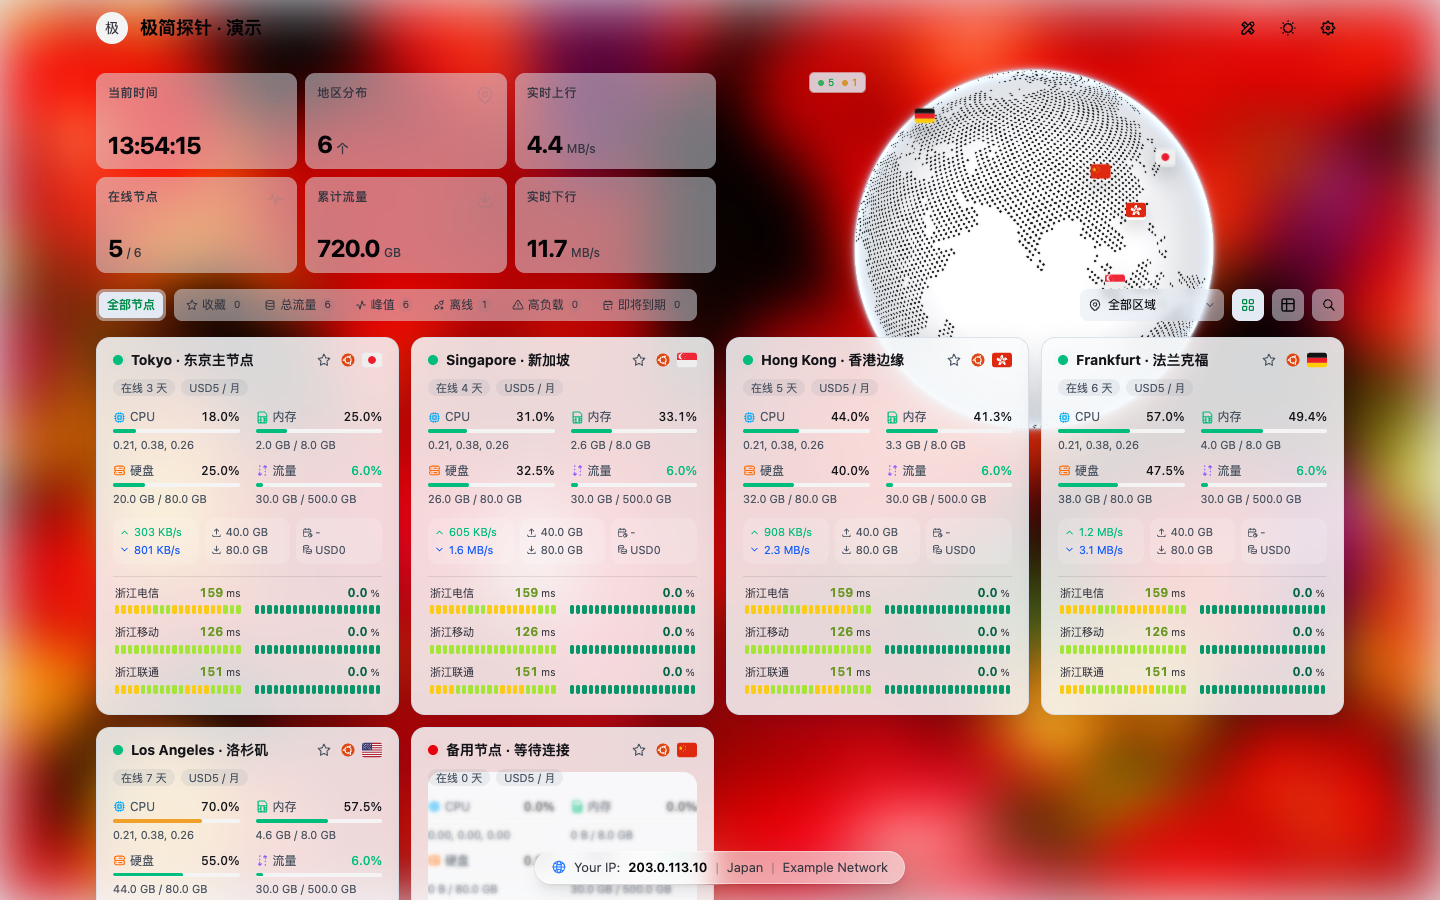
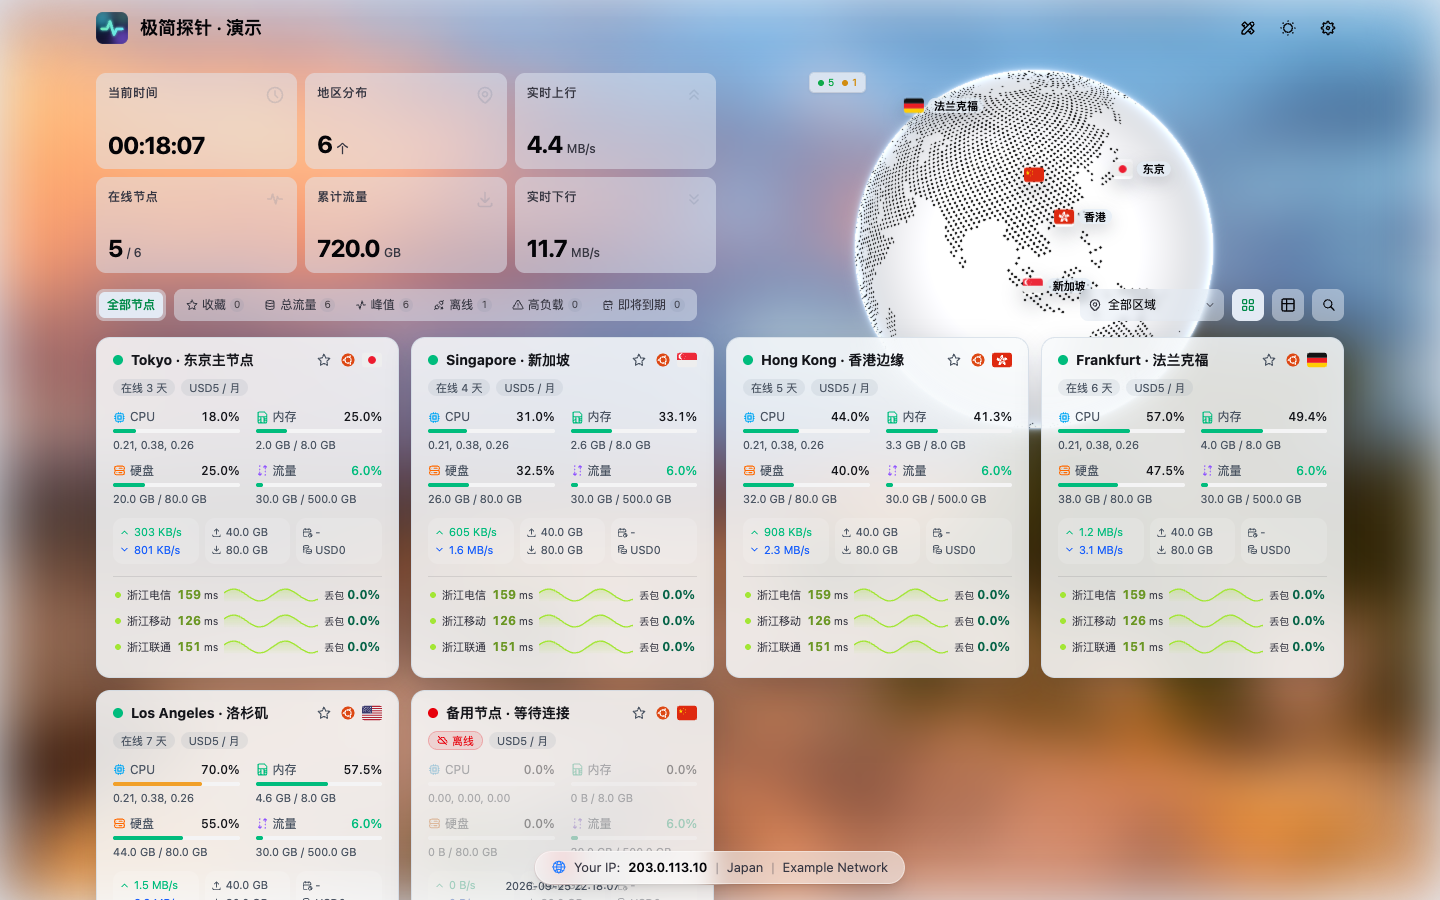
Release Glassmorphism theme 1.2.0
Bump the version in theme.json, package.json, package-lock.json and
vite.config.ts, add the 1.2.0 notes to the README (latency curves,
globe cities, offline cards, iOS support and the new icon), and
refresh preview.png against the demo data with an example visitor IP.

diff --git a/vite.config.ts b/vite.config.ts
@@ -3,7 +3,7 @@ import vue from '@vitejs/plugin-vue'
 import tailwindcss from '@tailwindcss/vite'
 export default defineConfig({
   plugins: [vue(), tailwindcss()],
-  define: { __BUILD_VERSION__: JSON.stringify('1.1.0'), __BUILD_GIT_HASH__: JSON.stringify('monitor-port') },
+  define: { __BUILD_VERSION__: JSON.stringify('1.2.0'), __BUILD_GIT_HASH__: JSON.stringify('monitor-port') },
   resolve: { alias: { '@': import.meta.dirname + '/src' } },
   server: { host: '127.0.0.1', proxy: { '/api': { target: process.env.MONITOR_HUB ?? 'http://127.0.0.1:9911', changeOrigin: true, ws: true } } },
   build: { chunkSizeWarningLimit: 1800 },

diff --git a/README.md b/README.md
@@ -4,27 +4,27 @@
 
 将 [sanrokamlan-prog/komari-theme-Glassmorphism](https://github.com/sanrokamlan-prog/komari-theme-Glassmorphism) 原主题移植到 [极简探针 Monitor](https://github.com/monitor-probe/monitor)。基于原版 v3.3.7 的 Vue 源码、组件、样式与资源，数据改由 Monitor REST / WebSocket 接口提供，不需要 Komari 服务器。
 
-当前版本 1.1.0，保留原项目 MIT 许可和作者署名。
+当前版本 1.2.0，保留原项目 MIT 许可和作者署名。
 
 ## 主要功能
 
 - **玻璃拟态外观**：动态渐变背景，翡翠 / 柔和 / 高对比 / 午夜 / 自定义配色；浅色、深色或按北京时间自动切换。背景可用图片、视频或 Bing 每日壁纸。
-- **地球与地图**：贴图地球、Cobe 点阵地球、平铺世界地图，显示节点国家标记，可自动旋转或隐藏。
+- **地球与地图**：贴图地球、Cobe 点阵地球、平铺世界地图，显示节点国家标记，可自动旋转或隐藏；可开启「地球显示城市」，按节点名称识别城市并标注城市名。
 - **首页概览**：概览卡片可选方案并自定义顺序，支持公告（Markdown）、快捷筛选（收藏、离线、高负载、即将到期等）、区域筛选、搜索和节点收藏。
 - **节点分组**：支持 Monitor 原生分组，按后台节点顺序排列并提供「未分组」入口；切换分组时概览、地球和工具面板只统计当前组。
-- **节点卡片**：mini / compact / comfortable / large 四种卡片和列表视图，离线节点置底。
-- **多线路延迟**：普通卡片默认显示最多 3 条探测线路，左侧为最新延迟与历史色条，右侧为最近 1 小时丢包率与历史色条；点击线路打开延迟详情。
+- **节点卡片**：mini / compact / comfortable / large 四种卡片和列表视图，离线节点置底；离线卡片淡化显示并标注「离线」。
+- **多线路延迟**：普通卡片默认显示最多 3 条探测线路，左侧为最新延迟与历史色条，右侧为最近 1 小时丢包率与历史色条；点击线路打开延迟详情。「卡片延迟样式」可切换为延迟曲线，悬停或点按曲线查看该时段的延迟与丢包。
 - **节点详情**：资源负载图、延迟图、费用与剩余价值计算、节点对比和快照导出。
 - **站点设置**：管理员登录后可在页面上直接调整设置并实时预览，保存到 Hub 后对所有访客生效；也可以在后台主题卡片中修改，两处共用同一份配置。支持导出、导入和恢复默认。
 
-## 1.1.0 更新内容
+## 1.2.0 更新内容
 
-- 站点设置改为保存在 Hub（需要 Monitor 1.3.0+），更新或重装主题不会丢失；设置面板仅管理员可见，支持实时预览和导入以前导出的 `glass-config.json`。
-- 到期天数使用 Hub 下发的 `expires_in`，避免访客时区不同导致在线节点提前显示「已过期」。
-- 支持 Monitor 原生节点分组。
-- 区域筛选下拉改为与主题一致的玻璃样式，显示各区域节点数。
-- 修复公告中 `&`、`<`、`>` 被重复转义的问题；公告链接只允许 `http:`、`https:`、`mailto:`。
-- 移除「导入旧浏览器配置」，旧版保存在浏览器本机的配置不再读取。
+- 新增「卡片延迟样式」：可在原方柱与延迟曲线（Sparkline）之间切换，多线路和单线路摘要都生效；曲线在超时或无采样处断开，悬停或点按查看该时段的时间、延迟与丢包。
+- 新增「地球显示城市」：按节点名称识别城市（中英文名、LAX / NRT / HKG 等代码），在三种地球样式上定位到城市并显示城市名；识别规则全部显示在「城市匹配规则」中，可增删改或自定义坐标。
+- 离线节点卡片改为淡化内容并在状态行标注「离线」，不再用模糊遮罩。
+- 适配 iOS：顶栏、页脚、返回顶部和访客信息避开刘海与底部横条，Safari 页面缩放时同样生效；新增主屏幕图标，「添加到主屏幕」显示为「极简探针」。
+- 站点图标换成与主题一致的玻璃风格，不再使用 Komari 图标。
+- 设置分组标题统一编号，多行设置项的输入框随内容增高。
 
 ## 安装
 
@@ -32,7 +32,7 @@
 
 ## 与原版的差异
 
-- Monitor 不公开节点 IP，地球按国家中心坐标定位，不代表机房实际位置；主题也不会把节点 IP 发送给第三方。
+- Monitor 不公开节点 IP，地球默认按国家中心坐标定位；开启「地球显示城市」后按节点名称推断城市，均不代表机房实际位置。主题不会把节点 IP 发送给第三方。
 - 原版 GPU、自定义标签、ASN/BGP、审计日志等功能依赖 Monitor 未提供的数据：审计入口已移除，拓扑只使用公开元数据，GPU 数据不代表真实上报。
 - 历史图表只包含 CPU、内存、磁盘、上下行速率和 Ping；其他历史字段留空，不用当前值或累计值填充。
 - 首页配额使用本月上传 / 下载量，累计流量为生命周期总计。
@@ -56,4 +56,4 @@ npm run package   # 生成 release/theme.tar.gz
 
 `preview.png` 是演示数据下 1440×900 的首页截图，访客 IP 使用示例地址；重新截图时不要记录真实访客 IP。
 
-发布新版本：把 `theme.json`、`package.json`、`package-lock.json` 和 `vite.config.ts` 中的版本号改为同一版本，推送 `x.y.z` 格式的 tag（如 `1.1.0`），GitHub Actions 会自动构建并创建带 `theme.tar.gz` 的 Release。
+发布新版本：把 `theme.json`、`package.json`、`package-lock.json` 和 `vite.config.ts` 中的版本号改为同一版本，推送 `x.y.z` 格式的 tag（如 `1.2.0`），GitHub Actions 会自动构建并创建带 `theme.tar.gz` 的 Release。
